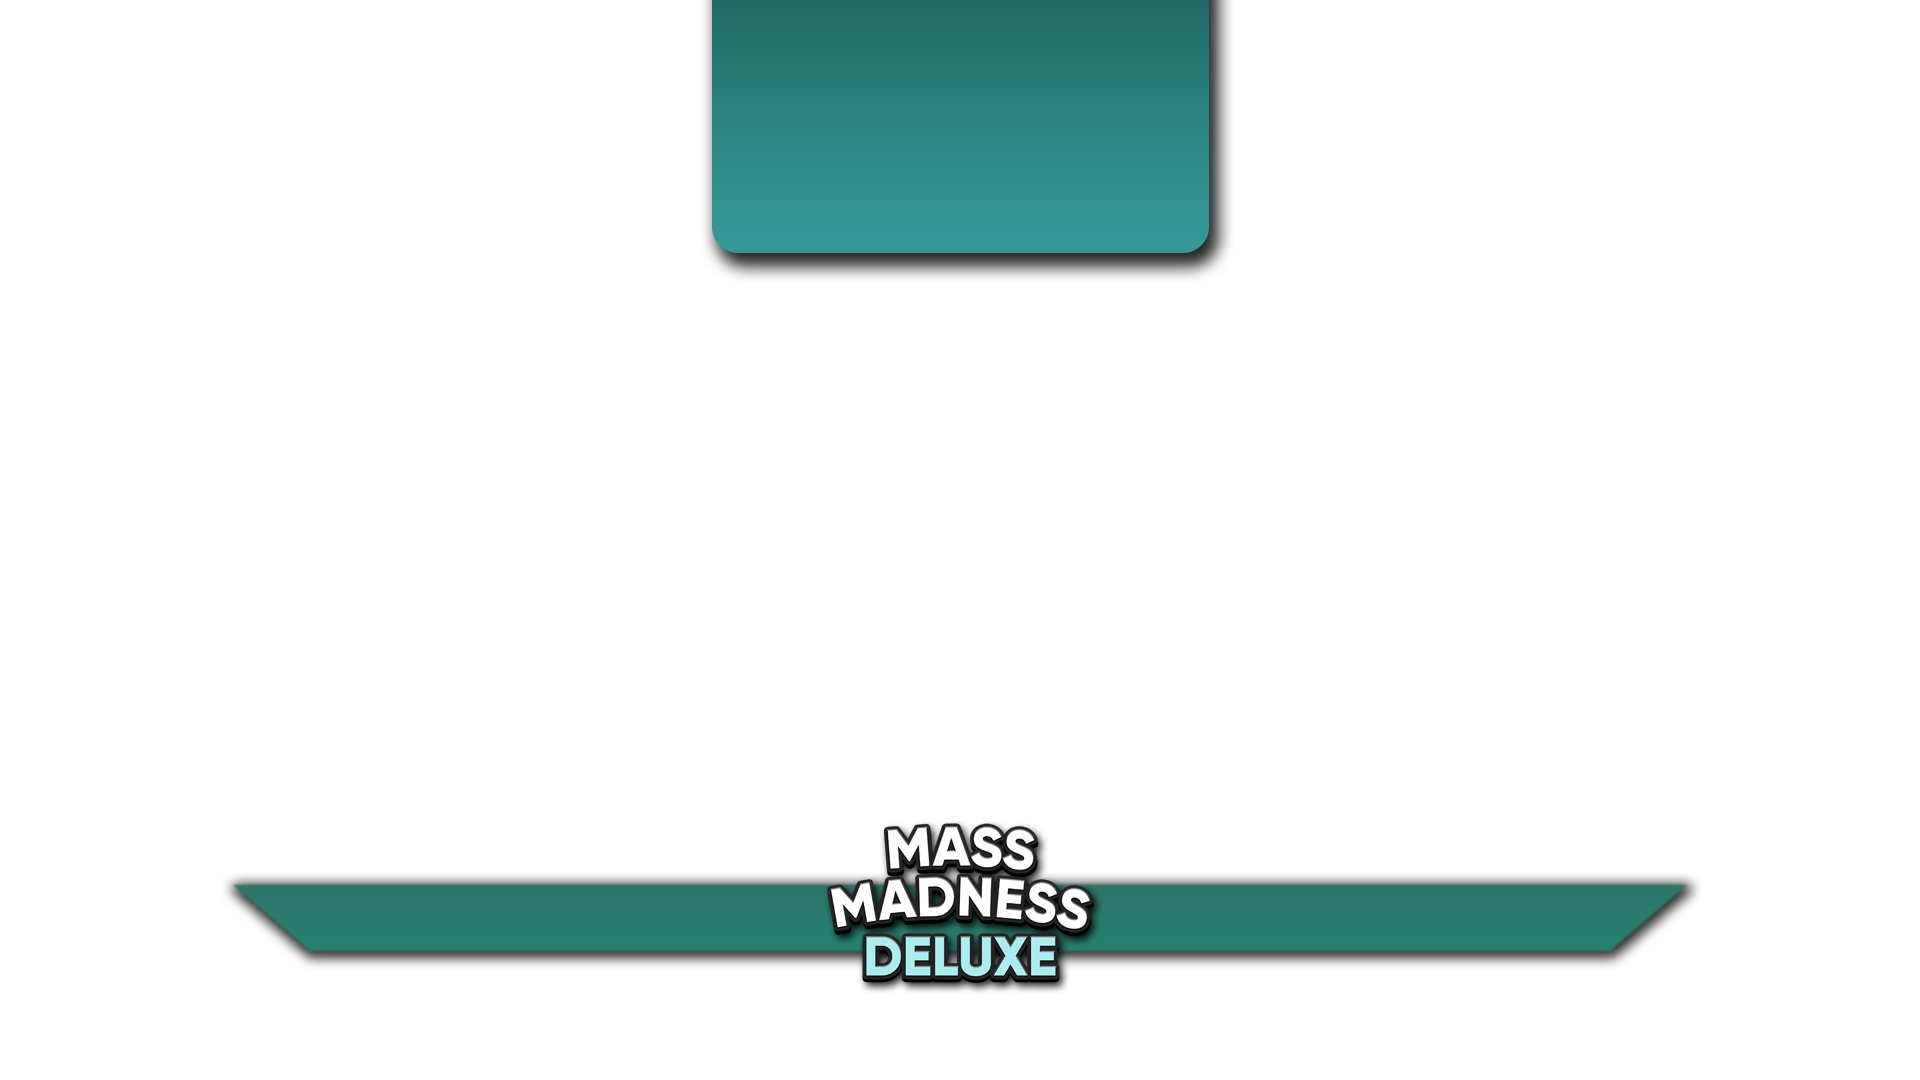
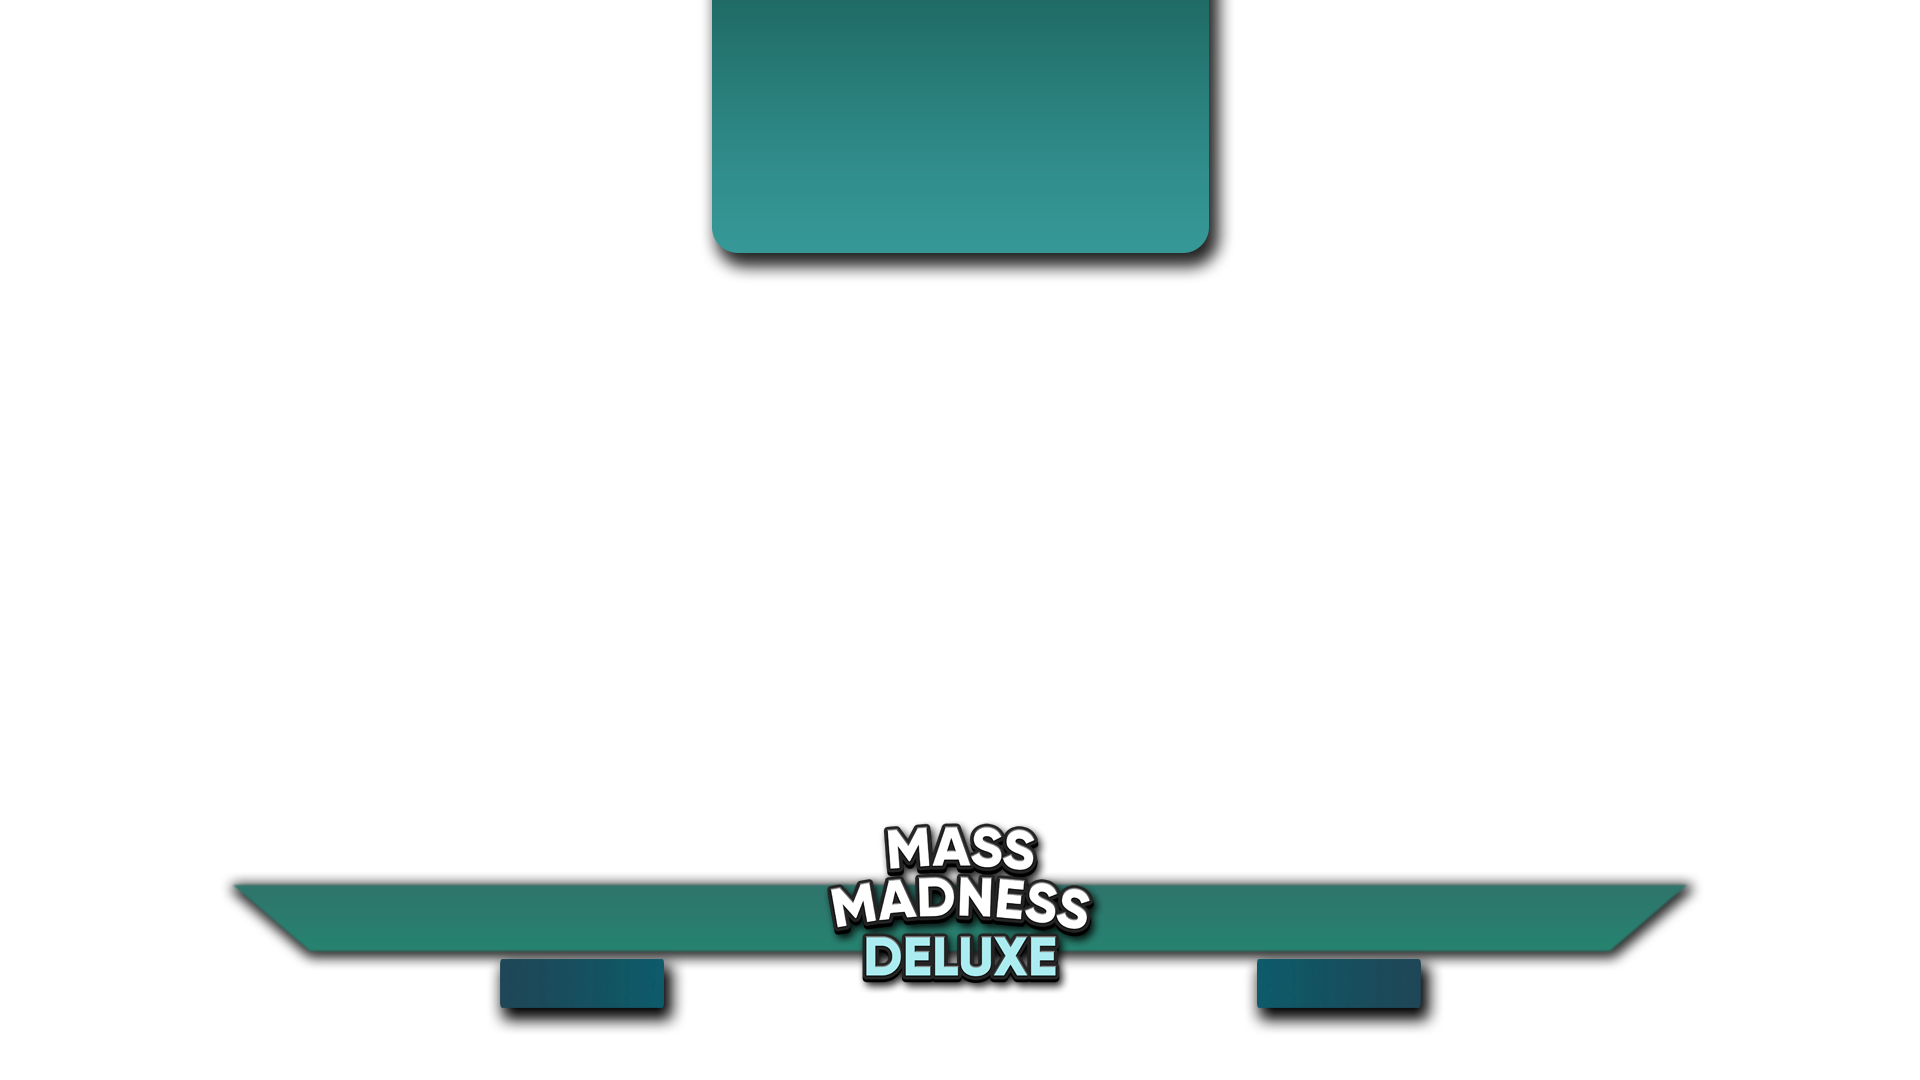
Caster pronouns added to commentator scene

Changed region(s): [[0.625, 0.8861, 0.75, 0.9778], [0.25, 0.8861, 0.375, 0.9778]]

diff --git a/Stream Tool/Resources/CSS/Commentary.css b/Stream Tool/Resources/CSS/Commentary.css
@@ -277,8 +277,8 @@ body {
 }
 
 #casters {
-    bottom: 10.2%;
-    left: 25%;
+    bottom: 5.4%;
+    left: 25.8%;
     position: absolute;
     text-align: center;
     text-shadow: 2px 2px 5px black;
@@ -287,7 +287,7 @@ body {
     display: flex;
     align-items: center;
     justify-content: center;
-    gap: 600px;
+    gap: 582px;
     flex-direction: row;
 }
 
@@ -301,9 +301,10 @@ body {
 
 .casterNameBox {
     display: flex;
+	text-align: center;
     justify-content: center;
     align-items: center;
-    gap: 2px;
+    gap: 6px;
     min-height: 36px;
 }
 .casterName {
@@ -312,6 +313,7 @@ body {
 .casterTag {
     color: lightgrey;
     transform: translateY(4px);
+	
 }
 
 .casterSep {
@@ -321,13 +323,23 @@ body {
 }
 
 .socialBox {
+	position: flex;
     display: flex;
-    text-shadow: 2px 2px 5px black;
-    justify-content: center;
+	text-align: center;
+	justify-content: center;
     align-items: center;
-    gap: 2px;
-    min-height: 28px;
+    text-shadow: 2px 2px 5px black;
+    min-height: 80px;
 }
+
+.socialDiv {
+    display: flex;
+    flex-direction: column;
+    width: 185px;
+    margin: 0 -5px;
+    flex-shrink: 0;
+}
+
 .socialText {
     color: rgb(255, 255, 255);
 }
@@ -358,8 +370,8 @@ body {
     transform: translate(-1px, 0px);
 }
 .personIcon {
-    height: 20px;
-    width: 20px;
+    height: 0px;
+    width: 0px;
 }
 
 

diff --git a/Stream Tool/Resources/CSS/VS Screen Custom.css b/Stream Tool/Resources/CSS/VS Screen Custom.css
@@ -28,6 +28,7 @@ body {
     padding: 0px;
     margin: 0px;
     text-transform: none;
+	
 }
 
 
@@ -124,11 +125,11 @@ body {
     transform: rotate(-3.3deg);
     width: 940px;
     overflow: hidden;
-    font-size: 0px;
+    font-size: 32px;
 }
 .playerInfoDivL {
     bottom: 223px;
-    left: 1200px;
+    left: 40px;
     transform-origin: bottom left;
 }
 .playerInfoDivL1 {
@@ -141,8 +142,8 @@ body {
     transform-origin: top left;
 }
 .playerInfoDivR {
-    right: 1200px;
-    bottom: 278px;
+    right: 40px;
+    bottom: 274px;
     transform-origin: top right;
     flex-direction: row-reverse;
 }
